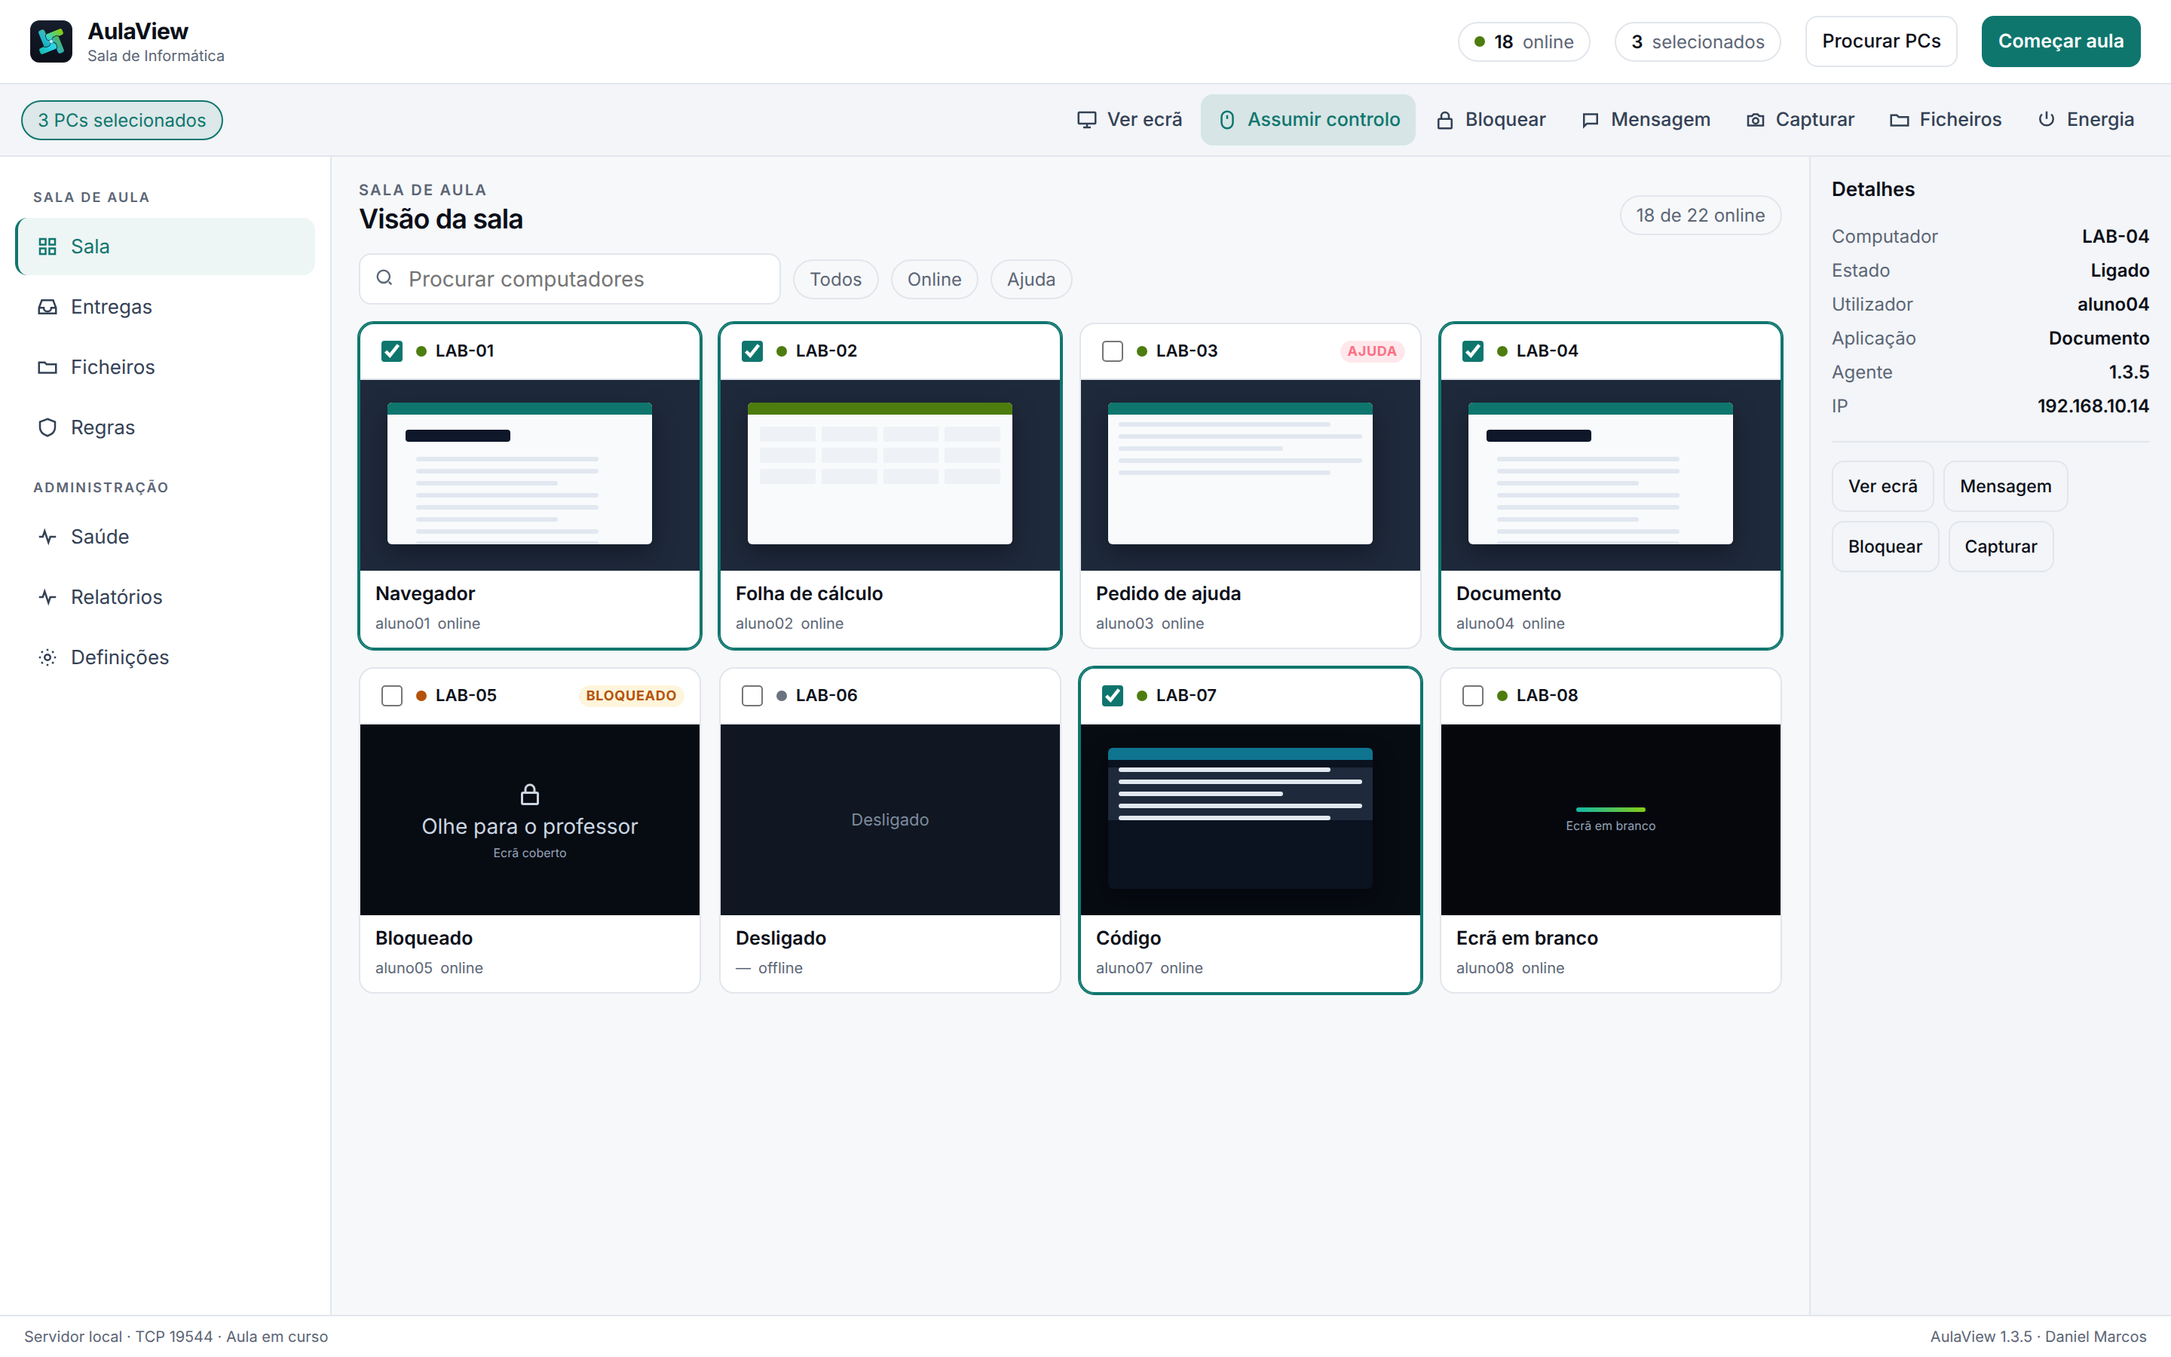
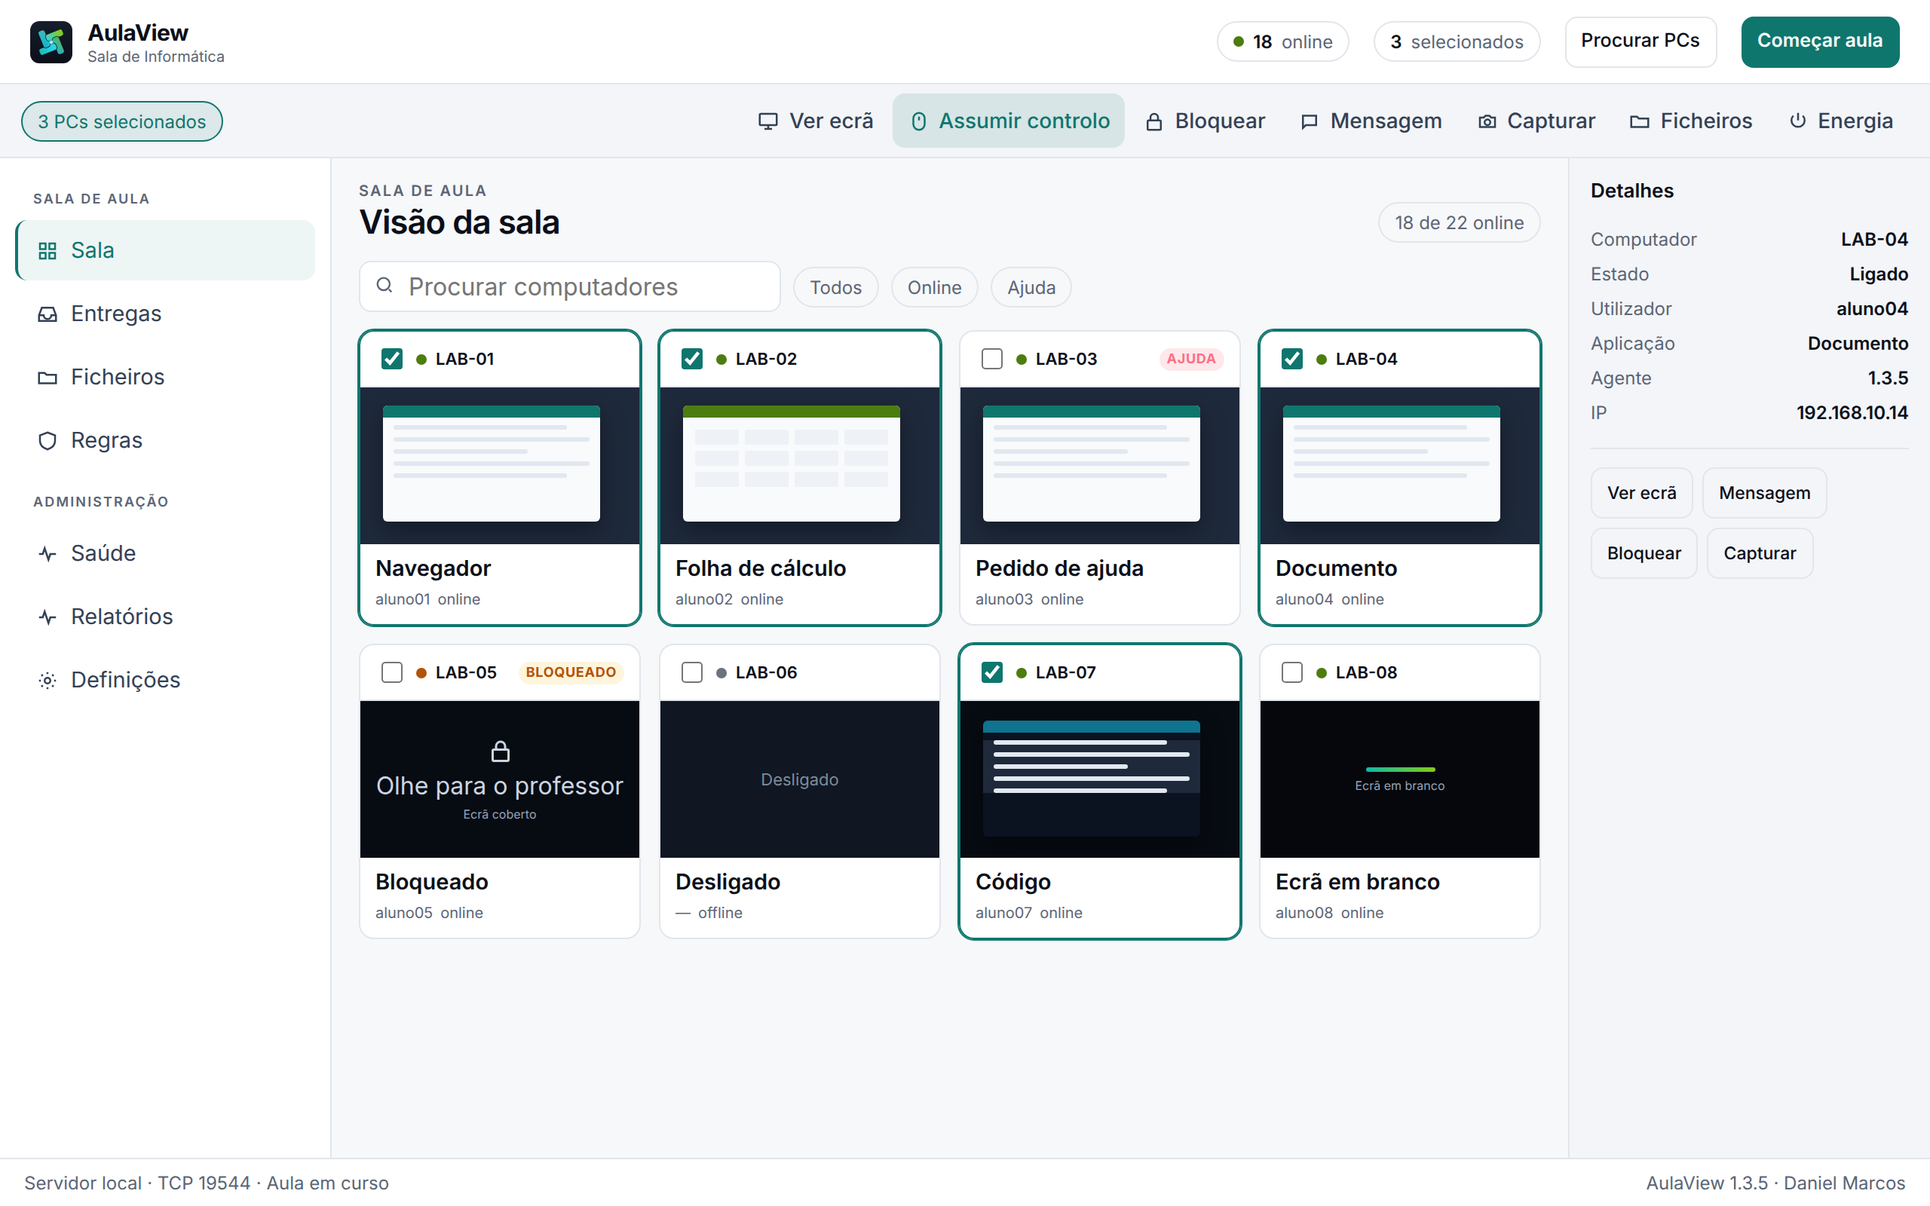
Corrige a galeria, o tema escuro e os atalhos
As imagens da consola passam a 2560 px, sem distorção, numa vista grande com separadores e ampliação. O escuro fica quase preto, e cada atalho é uma só pastilha.

diff --git a/css/site.css b/css/site.css
@@ -3,23 +3,23 @@
   --av-cyan: #22d3ee;
   --av-lime: #84cc16;
   --av-grad: linear-gradient(135deg, #14b8a6 0%, #22d3ee 48%, #84cc16 100%);
-  --bg: #0b0f19;
-  --bg-2: #080b13;
-  --surface: #111827;
-  --surface-2: #1a2233;
-  --border: #263044;
-  --text: #f1f5f9;
-  --text-2: #cbd5e1;
-  --muted: #94a3b8;
+  --bg: #0b0d0f;
+  --bg-2: #121417;
+  --surface: #16191c;
+  --surface-2: #1b1f23;
+  --border: rgb(255 255 255 / .08);
+  --text: #f4f6f8;
+  --text-2: #d5dbe3;
+  --muted: #a8b0ba;
   --accent: #2dd4bf;
   --accent-ink: #04201c;
   --online: #a3e635;
   --warn: #fbbf24;
-  --shadow: 0 24px 60px rgb(0 0 0 / .45);
-  --header: rgb(11 15 25 / .82);
+  --shadow: 0 28px 70px rgb(0 0 0 / .46);
+  --header: rgb(11 13 15 / .88);
   --aurora:
-    radial-gradient(50% 80% at 0% 0%, rgb(20 184 166 / .18), transparent 62%),
-    radial-gradient(42% 70% at 100% 0%, rgb(132 204 22 / .12), transparent 60%);
+    radial-gradient(720px 460px at 10% -8%, rgb(20 184 166 / .16), transparent 70%),
+    radial-gradient(640px 400px at 94% 0%, rgb(132 204 22 / .11), transparent 68%);
   --radius: 12px;
   --header-h: 72px;
   --ease: cubic-bezier(.2, .8, .2, 1);
@@ -53,7 +53,9 @@ html { scroll-behavior: smooth; }
 body {
   margin: 0;
   overflow-x: clip;
-  background: var(--bg);
+  background-color: var(--bg);
+  background-image: var(--aurora), linear-gradient(180deg, var(--bg) 0%, var(--bg-2) 100%);
+  background-attachment: fixed;
   color: var(--text);
   font-family: Inter, "Segoe UI Variable", "Segoe UI", system-ui, sans-serif;
   font-size: 16px;
@@ -74,7 +76,7 @@ button, input { font: inherit; color: inherit; }
 .icon { width: 18px; height: 18px; flex-shrink: 0; stroke: currentColor; fill: none; stroke-width: 2; stroke-linecap: round; stroke-linejoin: round; }
 .sprite symbol { fill: none; stroke: currentColor; stroke-width: 2; stroke-linecap: round; stroke-linejoin: round; }
 
-.wrap { width: min(1120px, calc(100% - 40px)); margin-inline: auto; }
+.wrap { width: min(1180px, calc(100% - 40px)); margin-inline: auto; }
 .section { padding: 88px 0; }
 .eyebrow {
   margin: 0 0 8px;
@@ -132,37 +134,41 @@ h3 { margin: 0; font-size: 18px; }
 .btn-ghost:hover { border-color: var(--accent); }
 .btn-soon { background: var(--surface-2); border: 1px dashed var(--border); color: var(--muted); }
 
-.hero { position: relative; overflow: hidden; padding: 56px 0 28px; background: var(--aurora), var(--bg); }
+.hero { position: relative; overflow: hidden; padding: 56px 0 12px; background: transparent; }
 .hero-pin {
-  position: absolute; right: -120px; top: -40px; width: min(560px, 70vw); opacity: .22;
+  position: absolute; right: -140px; top: -80px; width: min(520px, 62vw); opacity: .16;
   pointer-events: none; animation: spin 56s linear infinite;
 }
-.hero-grid { position: relative; display: grid; grid-template-columns: minmax(0, .92fr) minmax(0, 1.08fr); gap: 48px; align-items: center; }
+.hero-copy { position: relative; max-width: 740px; }
+.hero-frame { position: relative; margin-top: 36px; }
 .hero p.lead { margin: 18px 0 0; max-width: 46ch; }
 .hero-actions { display: flex; flex-wrap: wrap; gap: 10px; margin-top: 26px; }
 .facts { display: flex; flex-wrap: wrap; gap: 8px; margin: 22px 0 0; padding: 0; list-style: none; }
 .facts li { font-size: 13px; color: var(--muted); border: 1px solid var(--border); background: color-mix(in srgb, var(--surface) 70%, transparent); border-radius: 999px; padding: 6px 10px; }
 
 .frame {
-  background: var(--surface); border: 1px solid var(--border); border-radius: 14px;
+  background: var(--surface); border: 1px solid var(--border); border-radius: 18px;
   box-shadow: var(--shadow); overflow: hidden;
 }
-.frame-bar { display: flex; align-items: center; gap: 8px; min-height: 40px; padding: 0 12px; border-bottom: 1px solid var(--border); background: var(--surface-2); font-size: 12px; color: var(--muted); }
+.frame-bar { display: flex; align-items: center; gap: 8px; min-height: 42px; padding: 0 14px; border-bottom: 1px solid var(--border); background: var(--surface-2); font-size: 13px; color: var(--muted); }
 .frame-bar img { width: 16px; height: 16px; }
-.frame img.shot { width: 100%; height: auto; aspect-ratio: 16/9; object-fit: cover; background: #0b0f19; }
-.frame figcaption { padding: 10px 14px 12px; font-size: 12px; color: var(--muted); }
+.frame img.shot, .frame img.slide {
+  width: 100%; height: auto; aspect-ratio: 16 / 10; object-fit: contain; object-position: center;
+  background: #0b0d0f;
+}
+html.light .frame img.shot, html.light .frame img.slide { background: #e7ebf0; }
+.frame figcaption { padding: 12px 16px 14px; font-size: 13px; color: var(--muted); }
 
-.command-strip { padding: 8px 0 36px; }
+.command-strip { padding: 18px 0 40px; }
 .strip {
-  display: flex; gap: 8px; overflow: auto; padding: 4px 0 8px;
-  scrollbar-width: none;
+  display: flex; flex-wrap: wrap; gap: 8px; overflow: visible;
 }
-.strip::-webkit-scrollbar { display: none; }
-.strip span {
+.strip > span {
   display: inline-flex; align-items: center; gap: 8px; white-space: nowrap;
-  min-height: 38px; padding: 0 12px; border-radius: 10px; border: 1px solid var(--border);
-  background: var(--surface); color: var(--text-2); font-size: 13px; font-weight: 550;
+  min-height: 40px; padding: 0 14px; border-radius: 999px; border: 1px solid var(--border);
+  background: var(--surface); color: var(--text-2); font-size: 14px; font-weight: 550;
 }
+.strip > span .icon { width: 16px; height: 16px; }
 
 .section-head { max-width: 640px; margin-bottom: 32px; }
 .section-head p { margin: 12px 0 0; color: var(--text-2); }
@@ -194,22 +200,30 @@ h3 { margin: 0; font-size: 18px; }
 .soon p { margin: 8px 0 0; color: var(--text-2); }
 .note { margin: 14px 0 0; color: var(--muted); font-size: 14px; }
 
-.gallery { display: grid; grid-template-columns: 1fr 1fr; gap: 14px; }
-.cards > *, .downloads > *, .gallery > *, .req > *, .soon-grid > *, .dl, .hash { min-width: 0; }
+.viewer-tabs { display: flex; flex-wrap: wrap; gap: 8px; margin-bottom: 16px; }
+.viewer-tabs button {
+  display: inline-flex; align-items: center; min-height: 40px; padding: 0 14px;
+  border-radius: 999px; border: 1px solid var(--border); background: var(--surface);
+  color: var(--text-2); font-size: 14px; font-weight: 560; cursor: pointer;
+}
+.viewer-tabs button[aria-selected="true"] { background: var(--accent); color: var(--accent-ink); border-color: transparent; }
+.cards > *, .downloads > *, .req > *, .soon-grid > *, .dl, .hash { min-width: 0; }
 .shot-btn {
   display: block; width: 100%; padding: 0; border: 0; background: none; cursor: zoom-in; text-align: left; color: inherit;
 }
-.shot-btn .frame { height: 100%; }
-.shot-stack { display: grid; gap: 14px; }
 .lightbox {
-  position: fixed; inset: 0; z-index: 80; background: rgb(4 8 14 / .82);
-  display: none; align-items: center; justify-content: center; padding: 24px;
+  position: fixed; inset: 0; z-index: 80; background: rgb(8 9 10 / .9);
+  display: none; align-items: center; justify-content: center; padding: 28px 20px;
 }
 .lightbox.open { display: flex; }
-.lightbox figure { margin: 0; width: min(1100px, 100%); }
-.lightbox img { width: 100%; height: auto; border-radius: 12px; border: 1px solid var(--border); }
-.lightbox figcaption { margin-top: 10px; color: #e2e8f0; }
-.lightbox .icon-btn { position: absolute; top: 16px; right: 16px; background: #111827; color: white; }
+.lightbox figure { margin: 0; max-width: min(1280px, 100%); }
+.lightbox img {
+  display: block; max-width: 100%; max-height: 82vh; width: auto; height: auto;
+  object-fit: contain; border-radius: 12px; border: 1px solid rgb(255 255 255 / .08);
+  background: #0b0d0f;
+}
+.lightbox figcaption { margin-top: 10px; color: #e6eaee; }
+.lightbox .icon-btn { position: absolute; top: 16px; right: 16px; background: #1b1f23; color: white; }
 
 .steps { display: grid; grid-template-columns: repeat(3, 1fr); gap: 18px; counter-reset: step; }
 .step { position: relative; padding: 8px 8px 0 0; }
@@ -268,13 +282,13 @@ html.light .step .num { color: white; }
 @media (max-width: 980px) {
   .nav { display: none; }
   .menu-btn { display: inline-flex; }
-  .hero-grid, .cards, .soon-grid, .gallery, .steps, .req, .downloads { grid-template-columns: 1fr; }
+  .cards, .soon-grid, .steps, .req, .downloads { grid-template-columns: 1fr; }
   .hero { padding-top: 32px; }
   .section { padding: 64px 0; }
   .hero-pin { opacity: .14; top: auto; bottom: -80px; }
 }
 @media (max-width: 640px) {
-  .wrap { width: min(1120px, calc(100% - 28px)); }
+  .wrap { width: min(1180px, calc(100% - 28px)); }
   .header-actions .btn { display: none; }
   .hero-actions .btn, .dl .btn { width: 100%; }
   h1 { font-size: 38px; }

diff --git a/index.html b/index.html
@@ -6,7 +6,7 @@
 <title>AulaView — consola do professor para o laboratório</title>
 <meta name="description" content="O AulaView é a consola do professor para os computadores da sala. Ecrãs ao vivo, controlo remoto, mensagens e ficheiros na rede local, sem nuvem. Windows 10 ou posterior, 64 bits.">
 <meta name="author" content="Daniel Marcos">
-<meta name="theme-color" content="#0B0F19">
+<meta name="theme-color" content="#0b0d0f">
 <link rel="canonical" href="https://aulaview.danielpro.dev/">
 <meta property="og:type" content="website">
 <meta property="og:site_name" content="AulaView">
@@ -120,8 +120,8 @@
 <main id="conteudo">
   <section class="hero">
     <img class="hero-pin" src="/assets/brand/symbol.svg" alt="">
-    <div class="wrap hero-grid">
-      <div>
+    <div class="wrap">
+      <div class="hero-copy">
         <p class="eyebrow" data-i18n="heroKicker">Laboratório de informática · Windows</p>
         <h1><span data-i18n="heroTitleA">A sala inteira,</span><br><span class="grad" data-i18n="heroTitleB">num só ecrã.</span></h1>
         <p class="lead" data-i18n="heroLead">O AulaView é a consola do professor para os computadores da sala. Veja os ecrãs ao vivo, assuma o controlo de um PC, cubra o ecrã da turma e troque ficheiros — o servidor fica no seu computador, na rede local, sem nuvem.</p>
@@ -135,9 +135,9 @@
           <li data-i18n="factPort">Porta TCP 19544</li>
         </ul>
       </div>
-      <figure class="frame">
+      <figure class="frame hero-frame">
         <div class="frame-bar"><img src="/assets/brand/icon.svg" alt=""><span>AulaView — Sala de Informática</span></div>
-        <img class="shot" data-shot width="1440" height="900" data-dark="/assets/screens/sala-escuro.png" data-light="/assets/screens/sala-claro.png" src="/assets/screens/sala-escuro.png" data-i18n-alt="g1" alt="Visão da sala, tema escuro">
+        <img class="shot" data-shot width="2560" height="1600" data-dark="/assets/screens/sala-escuro.png" data-light="/assets/screens/sala-claro.png" src="/assets/screens/sala-escuro.png" data-i18n-alt="g1" alt="Visão da sala, tema escuro">
         <figcaption data-i18n="heroCaption">Consola do professor, com a grelha da sala. Interface reconstruída a partir do programa real.</figcaption>
       </figure>
     </div>
@@ -201,36 +201,24 @@
     </div>
   </section>
 
-  <section class="section" id="galeria" style="background:var(--bg-2)">
+  <section class="section" id="galeria">
     <div class="wrap">
       <div class="section-head reveal">
         <p class="eyebrow" data-i18n="galleryKicker">A consola</p>
         <h2 data-i18n="galleryTitle">O mesmo programa, em claro e em escuro.</h2>
         <p data-i18n="galleryLead">Estas imagens seguem a interface real da consola AulaView 1.3.5: cores, tipo de letra, barra de ações e a janela Procurar computadores. Os computadores da grelha são de exemplo.</p>
       </div>
-      <div class="gallery">
-        <button class="shot-btn reveal" type="button" data-zoom>
+      <div class="viewer reveal" data-viewer>
+        <div class="viewer-tabs" role="tablist" data-i18n-aria="galleryTabs" aria-label="Vistas da consola">
+          <button type="button" role="tab" data-shot-tab data-src="/assets/screens/sala-escuro.png" data-i18n="g1" aria-selected="true">Visão da sala, tema escuro</button>
+          <button type="button" role="tab" data-shot-tab data-src="/assets/screens/sala-claro.png" data-i18n="g2" aria-selected="false">Visão da sala, tema claro</button>
+          <button type="button" role="tab" data-shot-tab data-src="/assets/screens/procurar.png" data-i18n="g3" aria-selected="false">Procurar computadores e Adicionar</button>
+          <button type="button" role="tab" data-shot-tab data-src="/assets/screens/controlo.png" data-i18n="g4" aria-selected="false">Controlo remoto de um PC</button>
+        </div>
+        <button class="shot-btn" type="button" data-zoom>
           <figure class="frame">
-            <img src="/assets/screens/sala-escuro.png" width="1440" height="900" data-i18n-alt="g1" alt="Visão da sala, tema escuro">
-            <figcaption data-i18n="g1">Visão da sala, tema escuro</figcaption>
-          </figure>
-        </button>
-        <button class="shot-btn reveal" type="button" data-zoom>
-          <figure class="frame">
-            <img src="/assets/screens/sala-claro.png" width="1440" height="900" data-i18n-alt="g2" alt="Visão da sala, tema claro">
-            <figcaption data-i18n="g2">Visão da sala, tema claro</figcaption>
-          </figure>
-        </button>
-        <button class="shot-btn reveal" type="button" data-zoom>
-          <figure class="frame">
-            <img src="/assets/screens/procurar.png" width="1440" height="900" data-i18n-alt="g3" alt="Procurar computadores e Adicionar">
-            <figcaption data-i18n="g3">Procurar computadores e Adicionar</figcaption>
-          </figure>
-        </button>
-        <button class="shot-btn reveal" type="button" data-zoom>
-          <figure class="frame">
-            <img src="/assets/screens/controlo.png" width="1440" height="900" data-i18n-alt="g4" alt="Controlo remoto de um PC">
-            <figcaption data-i18n="g4">Controlo remoto de um PC</figcaption>
+            <img class="slide" id="gallery-shot" width="2560" height="1600" src="/assets/screens/sala-escuro.png" data-i18n-alt="g1" alt="Visão da sala, tema escuro">
+            <figcaption><span data-gallery-cap data-i18n="g1">Visão da sala, tema escuro</span> · <span data-i18n="zoomHint">Clique para ampliar</span></figcaption>
           </figure>
         </button>
       </div>
@@ -300,7 +288,7 @@
     </div>
   </section>
 
-  <section class="section" id="perguntas" style="background:var(--bg-2)">
+  <section class="section" id="perguntas">
     <div class="wrap">
       <div class="section-head reveal">
         <p class="eyebrow" data-i18n="faqKicker">Perguntas</p>

diff --git a/js/site.js b/js/site.js
@@ -71,6 +71,8 @@
       galleryKicker: "A consola",
       galleryTitle: "O mesmo programa, em claro e em escuro.",
       galleryLead: "Estas imagens seguem a interface real da consola AulaView 1.3.5: cores, tipo de letra, barra de ações e a janela Procurar computadores. Os computadores da grelha são de exemplo.",
+      galleryTabs: "Vistas da consola",
+      zoomHint: "Clique para ampliar",
       g1: "Visão da sala, tema escuro",
       g2: "Visão da sala, tema claro",
       g3: "Procurar computadores e Adicionar",
@@ -202,6 +204,8 @@
       galleryKicker: "The console",
       galleryTitle: "The same program, in light and in dark.",
       galleryLead: "These pictures follow the real AulaView 1.3.5 console: colours, type, action bar and the Search for computers window. The computers in the grid are examples.",
+      galleryTabs: "Console views",
+      zoomHint: "Click to enlarge",
       g1: "Classroom view, dark theme",
       g2: "Classroom view, light theme",
       g3: "Search for computers and Add",
@@ -322,7 +326,8 @@
       if (next && shot.getAttribute("src") !== next) shot.src = next;
     }
     const meta = document.querySelector('meta[name="theme-color"]');
-    if (meta) meta.setAttribute("content", theme === "light" ? "#f7f8fa" : "#0b0f19");
+    if (meta) meta.setAttribute("content", theme === "light" ? "#f7f8fa" : "#0b0d0f");
+    syncShot();
   }
 
   document.querySelectorAll("[data-lang]").forEach((btn) => {
@@ -365,6 +370,38 @@
     });
   }, { threshold: 0.12 });
   document.querySelectorAll(".reveal").forEach((el) => io.observe(el));
+
+  const shotTabs = [...document.querySelectorAll("[data-shot-tab]")];
+  function syncShot(tab) {
+    const current = tab || shotTabs.find((item) => item.getAttribute("aria-selected") === "true") || shotTabs[0];
+    if (!current) return;
+    shotTabs.forEach((item) => {
+      const on = item === current;
+      item.setAttribute("aria-selected", on ? "true" : "false");
+      item.tabIndex = on ? 0 : -1;
+    });
+    const img = document.querySelector("#gallery-shot");
+    if (img) {
+      if (img.getAttribute("src") !== current.dataset.src) img.src = current.dataset.src;
+      img.dataset.i18nAlt = current.dataset.i18n;
+      img.alt = t(current.dataset.i18n);
+    }
+    const cap = document.querySelector("[data-gallery-cap]");
+    if (cap) {
+      cap.dataset.i18n = current.dataset.i18n;
+      cap.textContent = t(current.dataset.i18n);
+    }
+  }
+  shotTabs.forEach((tab, index) => {
+    tab.addEventListener("click", () => syncShot(tab));
+    tab.addEventListener("keydown", (event) => {
+      if (event.key !== "ArrowRight" && event.key !== "ArrowLeft") return;
+      event.preventDefault();
+      const next = event.key === "ArrowRight" ? (index + 1) % shotTabs.length : (index - 1 + shotTabs.length) % shotTabs.length;
+      syncShot(shotTabs[next]);
+      shotTabs[next].focus();
+    });
+  });
 
   const box = document.querySelector("[data-lightbox]");
   const boxImg = document.querySelector("[data-lightbox-img]");

diff --git a/404.html b/404.html
@@ -5,7 +5,7 @@
 <meta name="viewport" content="width=device-width, initial-scale=1">
 <title>Página não encontrada — AulaView</title>
 <meta name="robots" content="noindex">
-<meta name="theme-color" content="#0B0F19">
+<meta name="theme-color" content="#0b0d0f">
 <link rel="icon" href="/assets/brand/favicon-32.png" type="image/png">
 <link rel="icon" href="/assets/brand/icon.svg" type="image/svg+xml">
 <link rel="stylesheet" href="/css/site.css">
